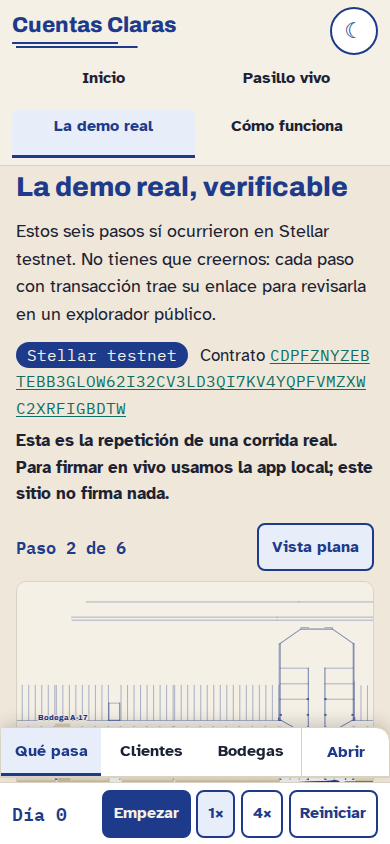
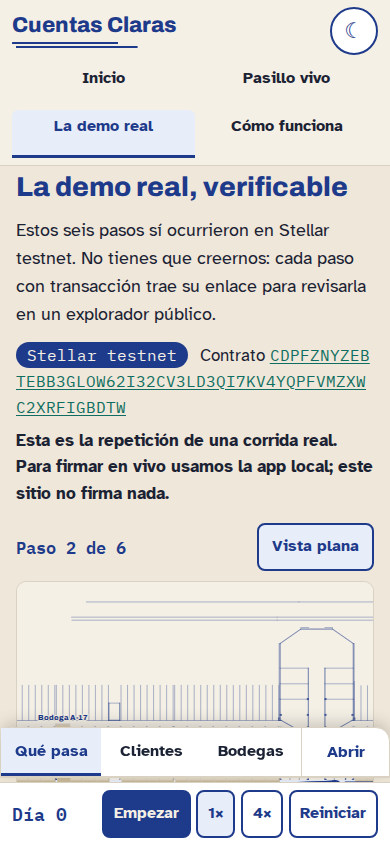
Sitio público: primera pantalla del celular con producto (cola, tarea 12)
Bajo el titular, un mini mapa del pasillo con la nota ya firmada por los dos
(paso 2 de la corrida real) y el botón «Ver la demo real» (48 px); el texto largo
baja. Los mini mapas se amplían para que se lea «Firmada por los dos».
En 390 px (Chromium): mapa entre 390 y 512 px y botón entre 638 y 686 px, dentro
de los primeros 844 px; sin desplazamiento horizontal. Capturas web-* regeneradas.
61 pruebas en verde.

Claude-Session: https://claude.ai/code/session_01K1b1vNoFtBP3GMdkbhyJpw

diff --git a/web/portada.js b/web/portada.js
@@ -6,13 +6,25 @@
 (function (raiz) {
   const CC = raiz.CC;
 
+  // Primera pantalla (cola, tarea 12): bajo el titular, el mini mapa con la nota ya
+  // firmada por los dos (paso 2 de la corrida real) para que se vea el producto.
+  CC.secciones['portada-mapa'] = function montarPortada(destino) {
+    const forma = CC.Gemelo.formaDelSitio();
+    if (!forma || typeof CC.crearEscena !== 'function') return;
+    const { pintar } = CC.crearEscena(destino, forma, {
+      recorte: { x1: 44, x2: 216, y1: -14, y2: 48 },
+      descripcion: 'Mini mapa del Pasillo A-B: la nota entre Bodega A-17 y Doña Mary, firmada por los dos.',
+    });
+    pintar(2, !CC.movimientoReducido());
+  };
+
   CC.secciones['historia-mapa'] = function montarHistoria(destino) {
     const forma = CC.Gemelo.formaDelSitio();
     const pasos = Array.from(document.querySelectorAll('.historia-paso'));
     if (!forma || !pasos.length || typeof CC.crearEscena !== 'function') return;
 
     const { pintar } = CC.crearEscena(destino, forma, {
-      recorte: { x1: 40, x2: 196, y1: -14, y2: 48 }, // unidades del plano
+      recorte: { x1: 44, x2: 216, y1: -14, y2: 48 }, // unidades del plano
       descripcion: 'Mini mapa del Pasillo A-B entre Bodega A-17, Bodega B-40 y Doña Mary.',
     });
 

diff --git a/web/index.html b/web/index.html
@@ -40,6 +40,11 @@
       <div class="dentro">
         <p class="refran"><span class="refran-uno">Cuentas claras,</span> <span class="refran-dos">amistades largas.</span></p>
         <h1 id="t-inicio">La bitácora de fiado co-firmada de la Central de Abasto</h1>
+        <figure class="portada-producto">
+          <div id="portada-mapa" class="portada-mapa" aria-hidden="true"></div>
+          <figcaption>Bodega A-17 y Doña Mary firmaron la nota: ahora existe, y nadie puede cambiarla. Corrida real en Stellar testnet; posiciones ilustrativas, ninguna bodega real participa.</figcaption>
+          <p class="portada-accion"><a class="boton boton-primario" href="#demo-real">Ver la demo real</a></p>
+        </figure>
         <p class="entrada">En la Central de Abasto el fiado se da de palabra. La palabra se cumple, pero no viaja: fuera de la bodega, nadie la conoce. <strong>Cuentas Claras</strong> hace que cada nota de fiado quede firmada por la bodega y por el cliente, que nadie pueda cambiarla ni borrarla, y que el historial de cumplimiento sea del cliente.</p>
 
 

diff --git a/web/pruebas/movil.test.js b/web/pruebas/movil.test.js
@@ -69,3 +69,13 @@ test('en el celular la hoja y los controles van fijos abajo; mapa plano bajo 900
   const gemelo = fs.readFileSync(path.join(WEB, 'gemelo.js'), 'utf8');
   assert.match(gemelo, /matchMedia\('\(max-width: 899px\)'\)/);
 });
+
+test('primera pantalla con producto: bajo el titular, mini mapa y «Ver la demo real» antes del texto largo', () => {
+  const inicio = html.slice(html.indexOf('<section id="inicio"'), html.indexOf('</section>', html.indexOf('<section id="inicio"')));
+  const h1 = inicio.indexOf('<h1');
+  const mapa = inicio.indexOf('id="portada-mapa"');
+  const boton = inicio.search(/<a class="boton boton-primario" href="#demo-real">Ver la demo real<\/a>/);
+  const entrada = inicio.indexOf('<p class="entrada">');
+  assert.ok(h1 >= 0 && h1 < mapa && mapa < boton && boton < entrada, `${h1} ${mapa} ${boton} ${entrada}`);
+  assert.match(css, /\.portada-accion \.boton \{[^}]*min-height: 48px/);
+});

diff --git a/web/estilos.css b/web/estilos.css
@@ -592,3 +592,16 @@ main:focus { outline: none; }
 .muestra-tono-2 { background: var(--tono-2); }
 .muestra-tono-3 { background: var(--tono-3); }
 .muestra-tono-4 { background: var(--tono-4); }
+
+/* ---------- Primera pantalla con producto (cola, tarea 12) ---------- */
+.portada-producto { margin: 0 0 1.5rem; }
+.portada-mapa:empty { display: none; }
+.portada-mapa .marco-recorte { background: var(--superficie); }
+.portada-producto figcaption { color: var(--texto-2); font-size: 1rem; margin: 0.5rem 0 0.8rem; }
+.portada-accion { margin: 0; }
+.portada-accion .boton { min-height: 48px; }
+@media (max-width: 640px) {
+  .seccion-inicio { padding-top: 1.25rem; }
+  .refran { font-size: 1.7rem; }
+  .portada-accion .boton { width: 100%; }
+}
